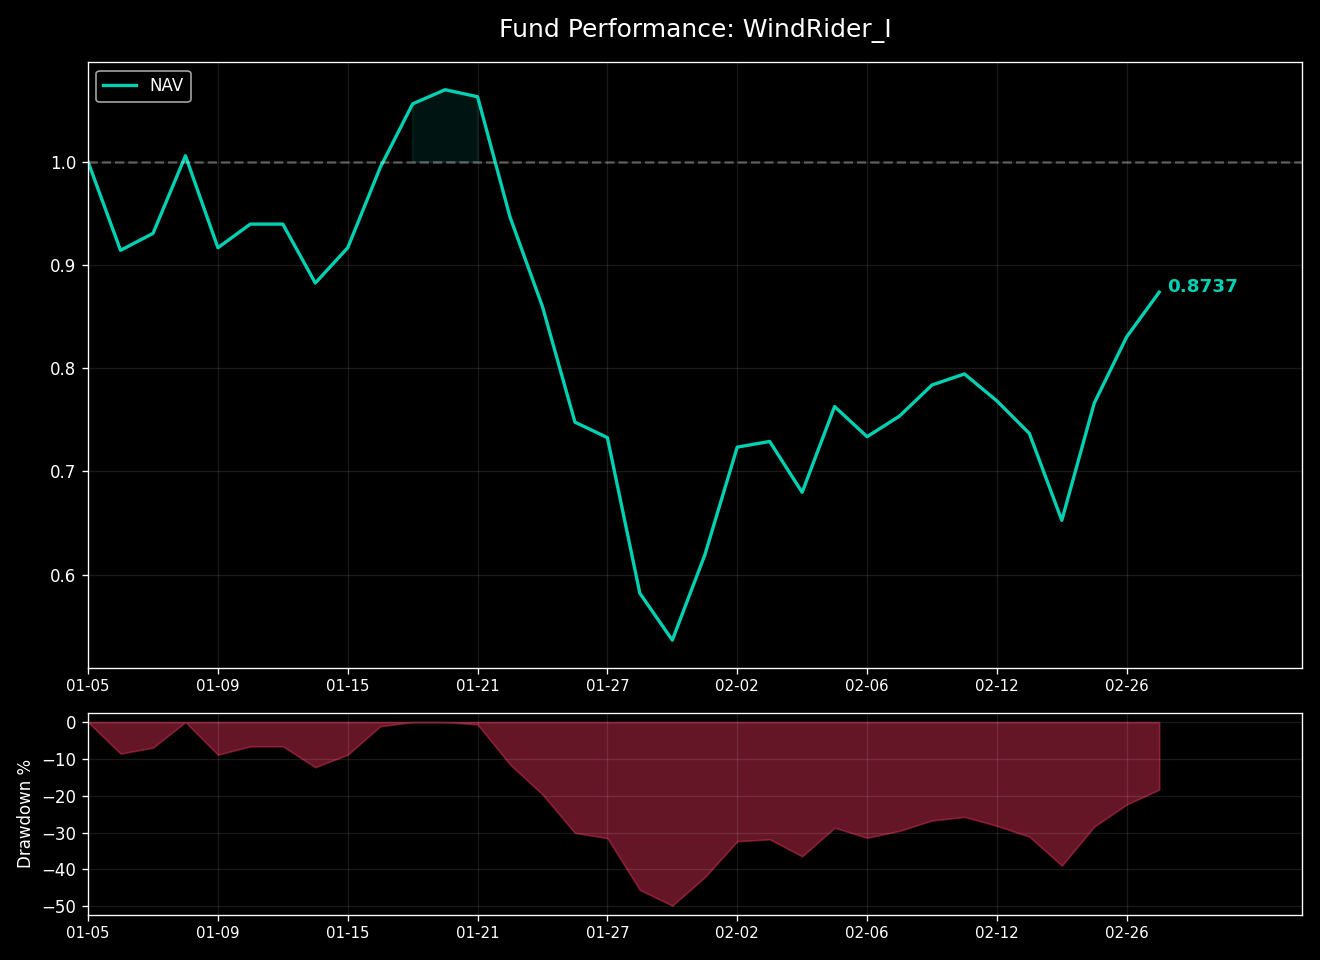
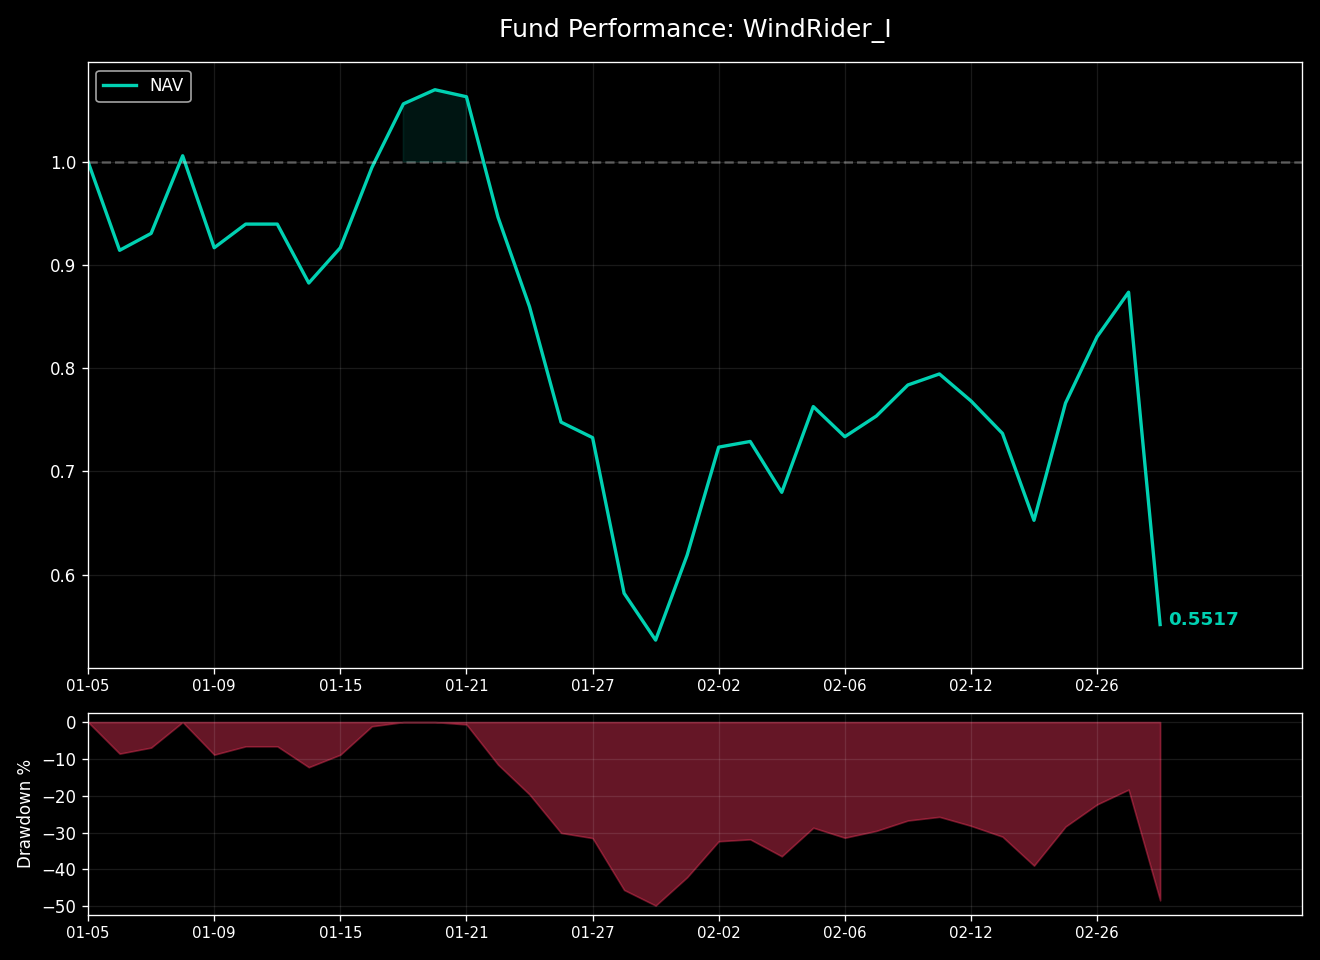
Updated Hugo site content

diff --git a/content/investment/windrider-1.md b/content/investment/windrider-1.md
@@ -1,8 +1,8 @@
 +++
 title = "风舵1号 (WindRider I)  /// 指数"
 summary = "商品期货分形摆动策略，实盘最新净值与核心风险指标。"
-date = 2026-02-27T15:15:03+08:00
-lastmod = 2026-02-27T15:15:03+08:00
+date = 2026-03-02T15:15:04+08:00
+lastmod = 2026-03-02T15:15:04+08:00
 draft = false
 description = "商品期货分形摆动策略实盘"
 +++
@@ -15,24 +15,24 @@ description = "商品期货分形摆动策略实盘"
 
 ### 风舵1号 (WindRider I) &nbsp;&nbsp;<span style="color: #E63946; font-weight: bold;">/</span><span style="color: #F1A73E; font-weight: bold;">/</span><span style="color: #000091; font-weight: bold;">/</span>&nbsp;&nbsp; 指数
 商品期货分形摆动策略实盘<br>
-净值简报 <small>(截至: 2026-02-27)</small>
+净值简报 <small>(截至: 2026-03-02)</small>
 
 |  |  |
 | :--- | :--- |
 | **指数代码：** | WDR1.CTA |
 | **起步日期：** | 2026-01-05 |
-| **最新净值：** | 0.8737 |
-| **今日涨跌：** | +5.20% |
+| **最新净值：** | 0.5517 |
+| **今日涨跌：** | -36.85% |
 
 ===========================
 
 | 核心指标 | |
 | :--- | :--- |
-| **累计涨跌：** | -12.63% |
-| **年化收益：** | -60.54% |
+| **累计涨跌：** | -44.83% |
+| **年化收益：** | -97.93% |
 | **最大回撤：** | -49.85% |
-| **卡玛比率：** | -1.21 |
-| **策略状态：** | 已运行 54 天 |
+| **卡玛比率：** | -1.96 |
+| **策略状态：** | 已运行 57 天 |
 
 ### 净值曲线
 ![风舵1号净值曲线](/images/investment/windrider_nav.png)
